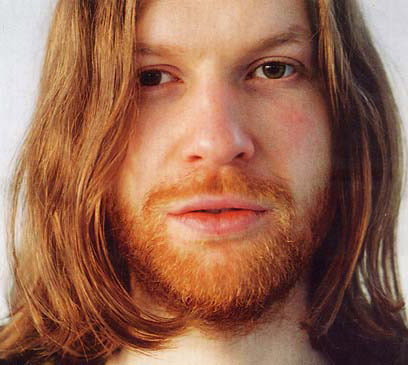
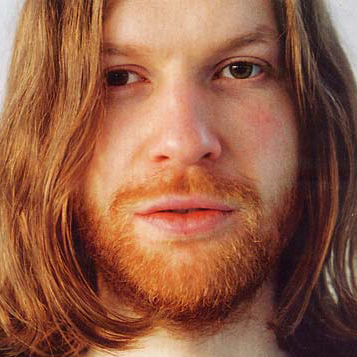
Delete old image, replace teammate userpic

diff --git a/scss/section/about.scss b/scss/section/about.scss
@@ -42,6 +42,10 @@
   align-items: center;
   justify-content: center;
   margin-bottom: rem(34px);
+  @include phone {
+    width: rem(100px);
+    height: rem(100px);
+  }
 }
 
 .about__img{
